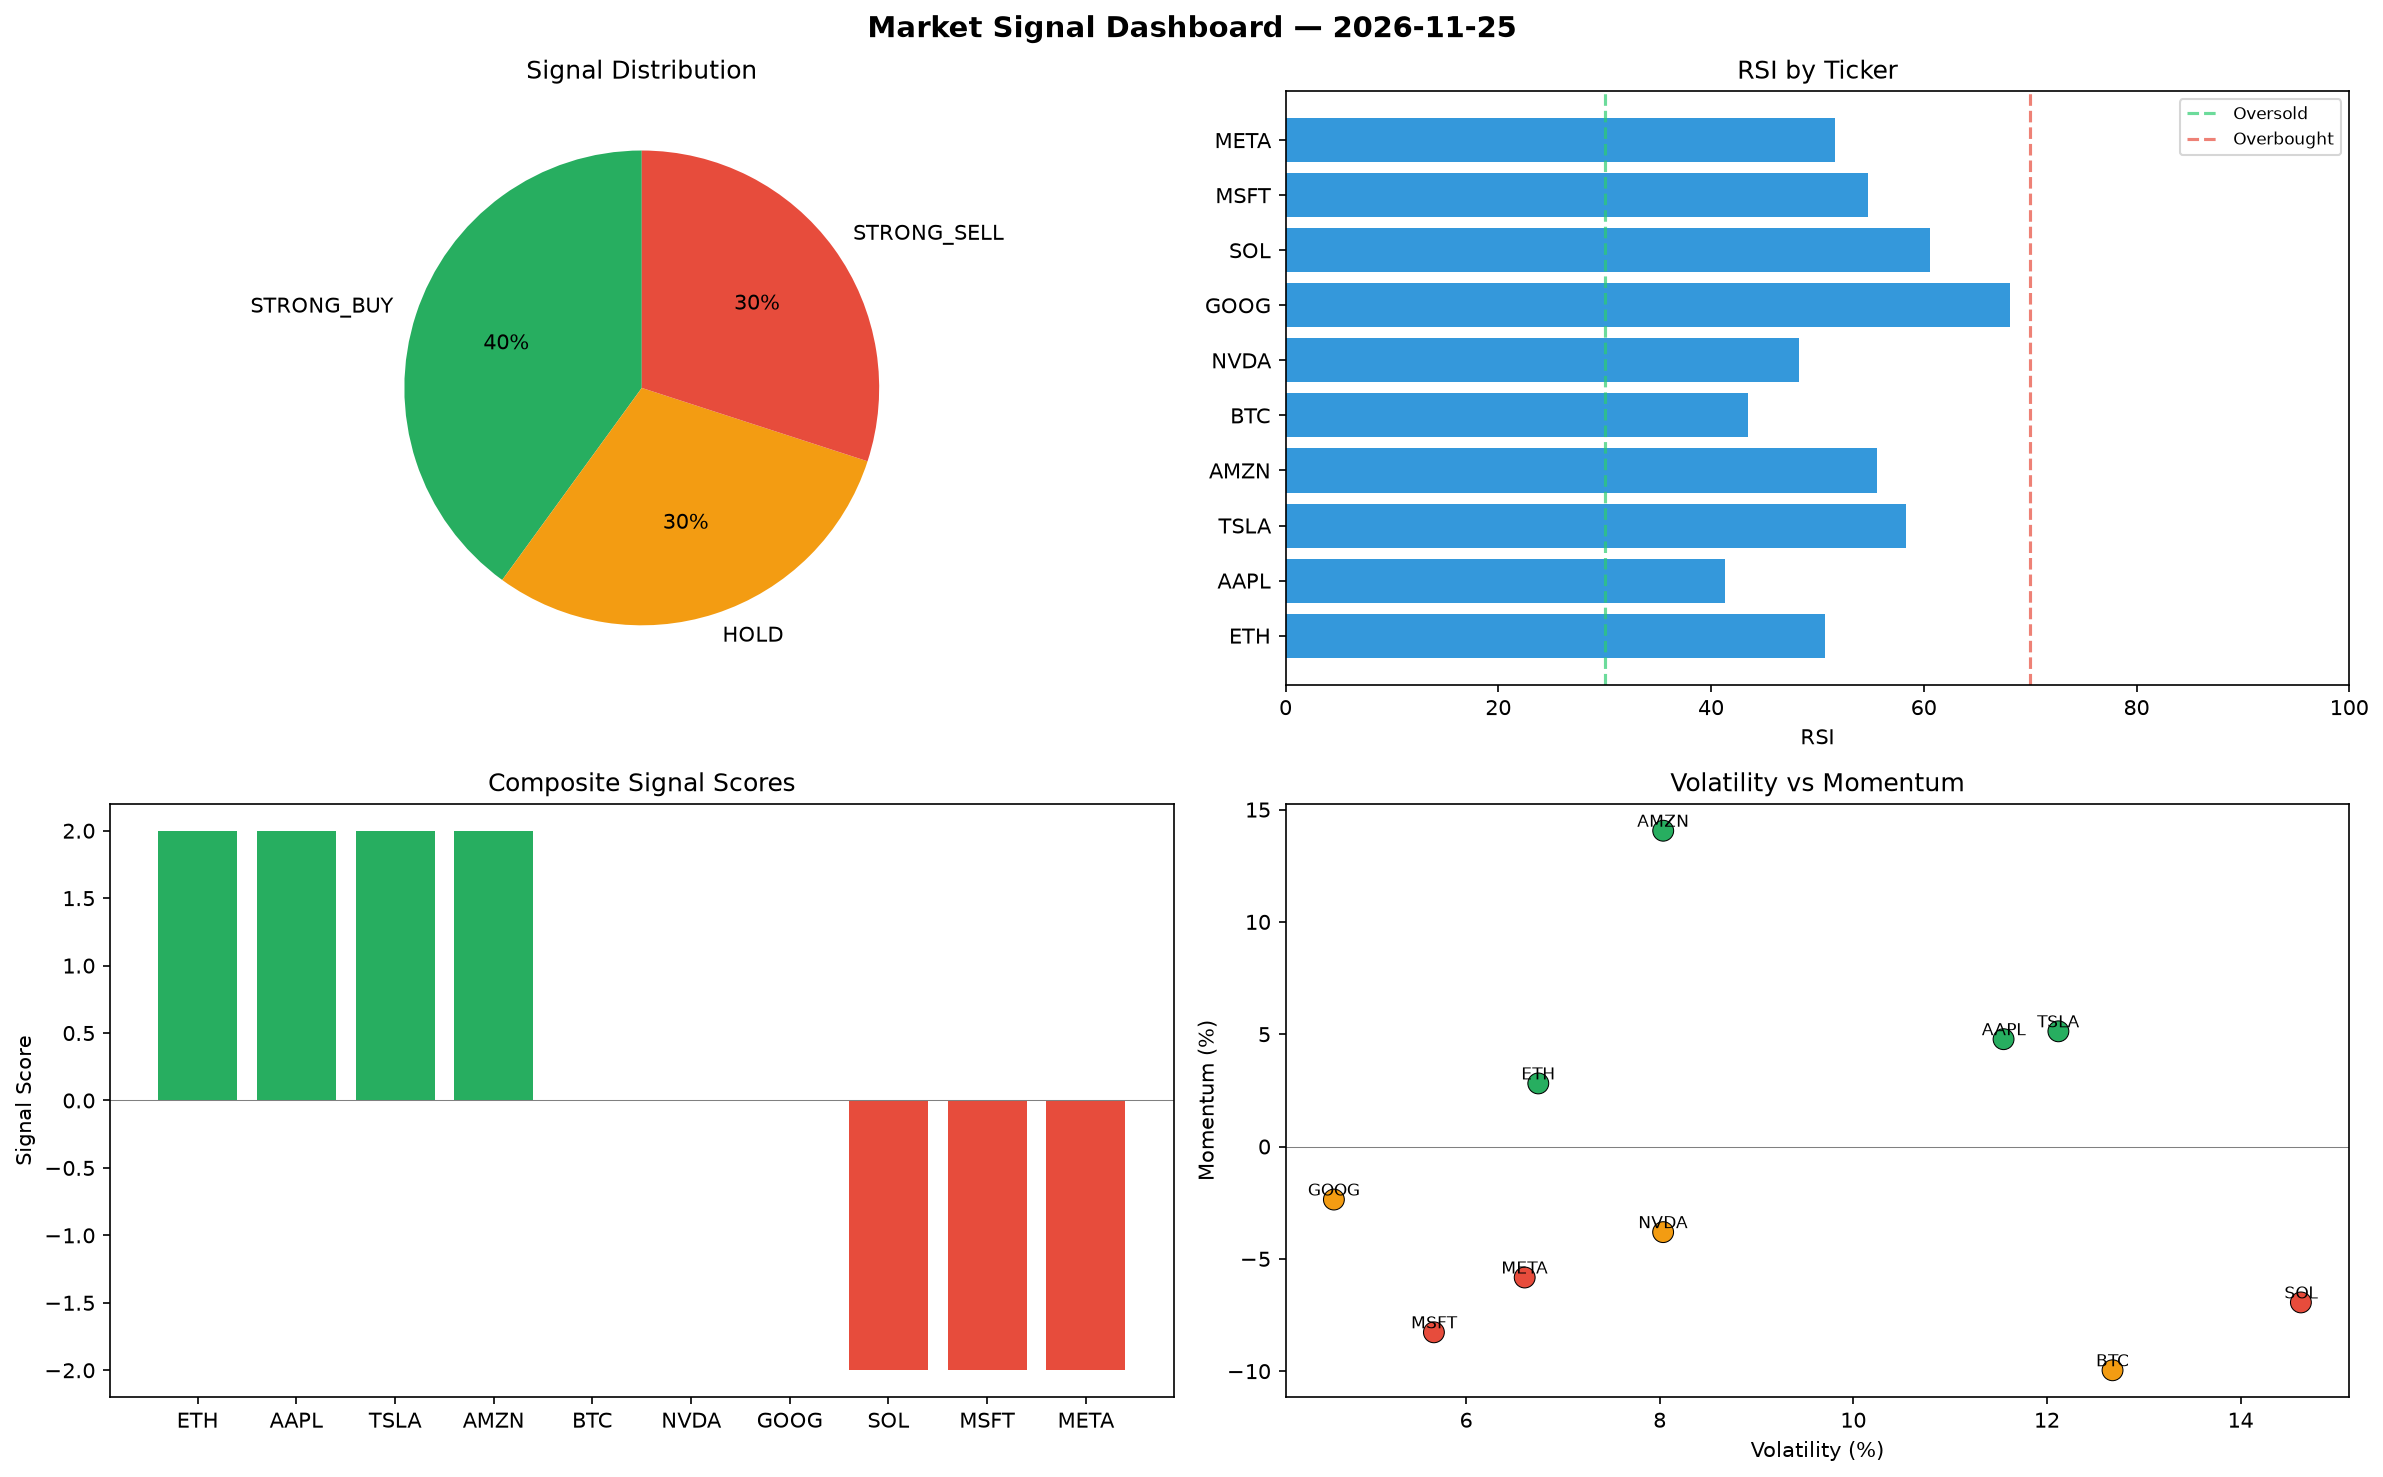
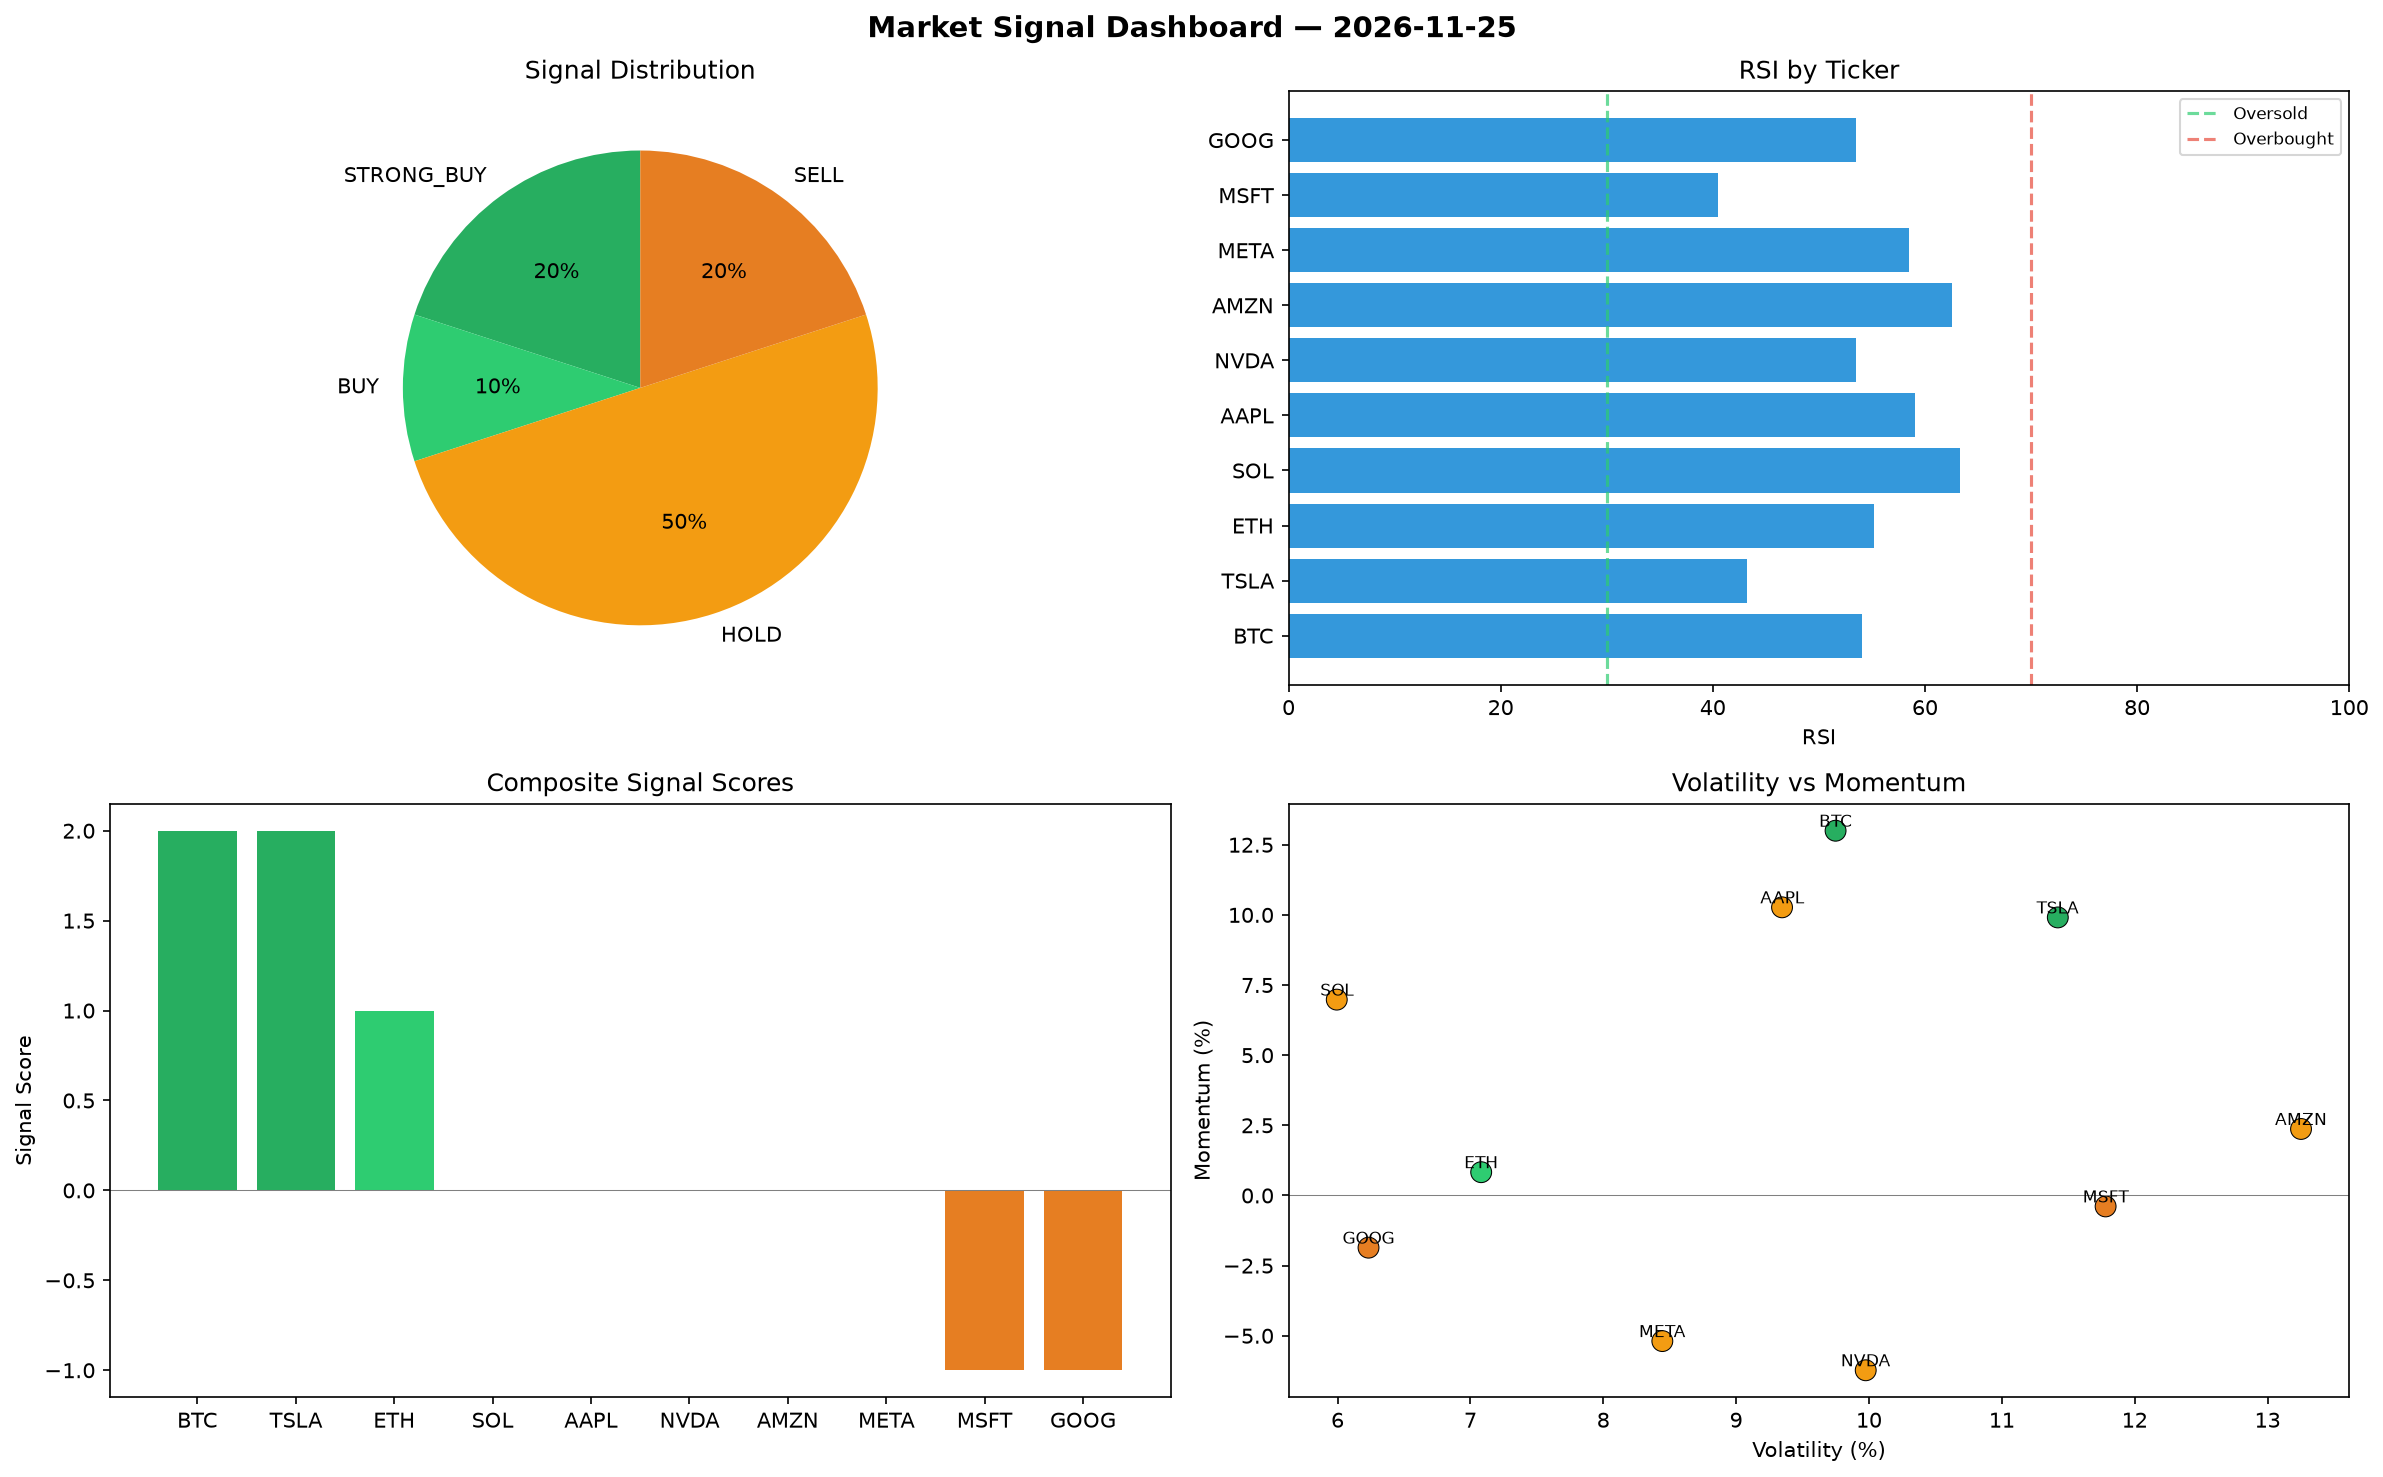
automated-bots: market signals 2026-11-25T11:33

diff --git a/logs/2026-11-25.md b/logs/2026-11-25.md
@@ -1,6 +1,6 @@
 # Market Signal Report — 2026-11-25
 
-**Run ID:** `548600e3f9` | **Buy:** 4 | **Sell:** 3 | **Hold:** 3
+**Run ID:** `058a16f200` | **Buy:** 3 | **Sell:** 2 | **Hold:** 5
 
 ![Dashboard](2026-11-25_dashboard.png)
 
@@ -8,28 +8,28 @@
 
 | Ticker | Price | Signal | Score | RSI | Momentum | Confidence |
 |--------|-------|--------|-------|-----|----------|------------|
-| ETH | $1966.72 | **STRONG_BUY** | 2 | 50.67 | 0.0281 | 0.5 |
-| AAPL | $4992.87 | **STRONG_BUY** | 2 | 41.32 | 0.0478 | 0.5 |
-| TSLA | $202.39 | **STRONG_BUY** | 2 | 58.35 | 0.0513 | 0.5 |
-| AMZN | $523.97 | **STRONG_BUY** | 2 | 55.64 | 0.1406 | 0.5 |
-| BTC | $502.95 | **HOLD** | 0 | 43.51 | -0.0996 | 0.0 |
-| NVDA | $2968.51 | **HOLD** | 0 | 48.26 | -0.0381 | 0.0 |
-| GOOG | $4542.76 | **HOLD** | 0 | 68.14 | -0.0236 | 0.0 |
-| SOL | $2924.93 | **STRONG_SELL** | -2 | 60.56 | -0.0694 | 0.5 |
-| MSFT | $2821.77 | **STRONG_SELL** | -2 | 54.72 | -0.0827 | 0.5 |
-| META | $3063.54 | **STRONG_SELL** | -2 | 51.67 | -0.0583 | 0.5 |
+| BTC | $514.05 | **STRONG_BUY** | 2 | 54.04 | 0.13 | 0.5 |
+| TSLA | $4364.61 | **STRONG_BUY** | 2 | 43.25 | 0.0991 | 0.5 |
+| ETH | $3645.03 | **BUY** | 1 | 55.2 | 0.0083 | 0.25 |
+| SOL | $2368.83 | **HOLD** | 0 | 63.3 | 0.0698 | 0.0 |
+| AAPL | $528.64 | **HOLD** | 0 | 59.1 | 0.1027 | 0.0 |
+| NVDA | $971.94 | **HOLD** | 0 | 53.5 | -0.0623 | 0.0 |
+| AMZN | $3827.98 | **HOLD** | 0 | 62.58 | 0.0237 | 0.0 |
+| META | $4160.39 | **HOLD** | 0 | 58.46 | -0.0519 | 0.0 |
+| MSFT | $1298.91 | **SELL** | -1 | 40.49 | -0.0039 | 0.25 |
+| GOOG | $3377.8 | **SELL** | -1 | 53.53 | -0.0186 | 0.25 |
 
 ## Delta vs Yesterday
 
 | Ticker | Today | Yesterday | Price Change | Signal Changed |
 |--------|-------|-----------|-------------|----------------|
-| ETH | STRONG_BUY | HOLD | 📉 -59.33% | ⚠ YES |
-| AAPL | STRONG_BUY | HOLD | 📈 95.92% | ⚠ YES |
-| TSLA | STRONG_BUY | STRONG_BUY | 📉 -96.03% | — |
-| AMZN | STRONG_BUY | STRONG_BUY | 📉 -86.25% | — |
-| BTC | HOLD | HOLD | 📉 -17.89% | — |
-| NVDA | HOLD | STRONG_SELL | 📉 -29.73% | ⚠ YES |
-| GOOG | HOLD | SELL | 📈 8686.77% | ⚠ YES |
-| SOL | STRONG_SELL | BUY | 📉 -35.22% | ⚠ YES |
-| MSFT | STRONG_SELL | HOLD | 📉 -21.88% | ⚠ YES |
-| META | STRONG_SELL | HOLD | 📈 259.38% | ⚠ YES |
+| BTC | STRONG_BUY | HOLD | 📉 -16.08% | ⚠ YES |
+| TSLA | STRONG_BUY | STRONG_BUY | 📉 -14.32% | — |
+| ETH | BUY | HOLD | 📉 -24.62% | ⚠ YES |
+| SOL | HOLD | BUY | 📉 -47.54% | ⚠ YES |
+| AAPL | HOLD | HOLD | 📉 -79.26% | — |
+| NVDA | HOLD | STRONG_SELL | 📉 -76.99% | ⚠ YES |
+| AMZN | HOLD | STRONG_BUY | 📈 0.42% | ⚠ YES |
+| META | HOLD | HOLD | 📈 388.05% | — |
+| MSFT | SELL | HOLD | 📉 -64.04% | ⚠ YES |
+| GOOG | SELL | SELL | 📈 6433.46% | — |
